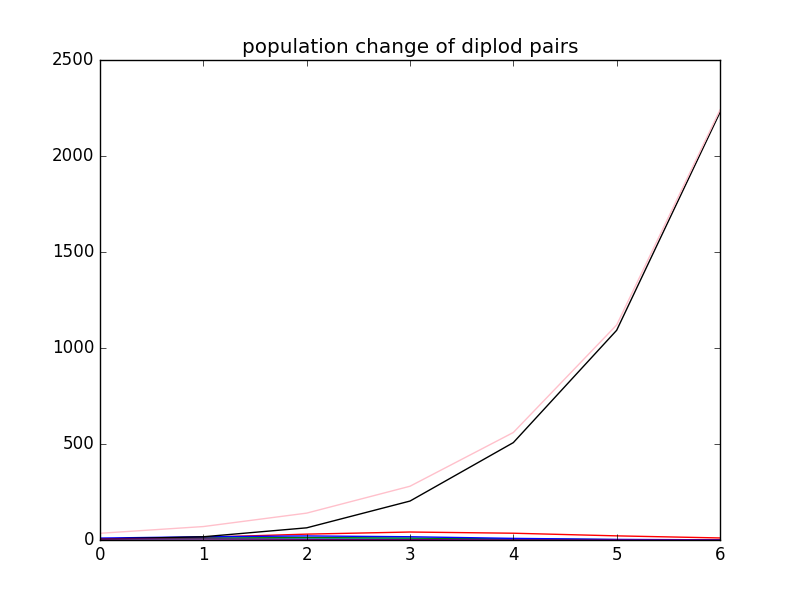
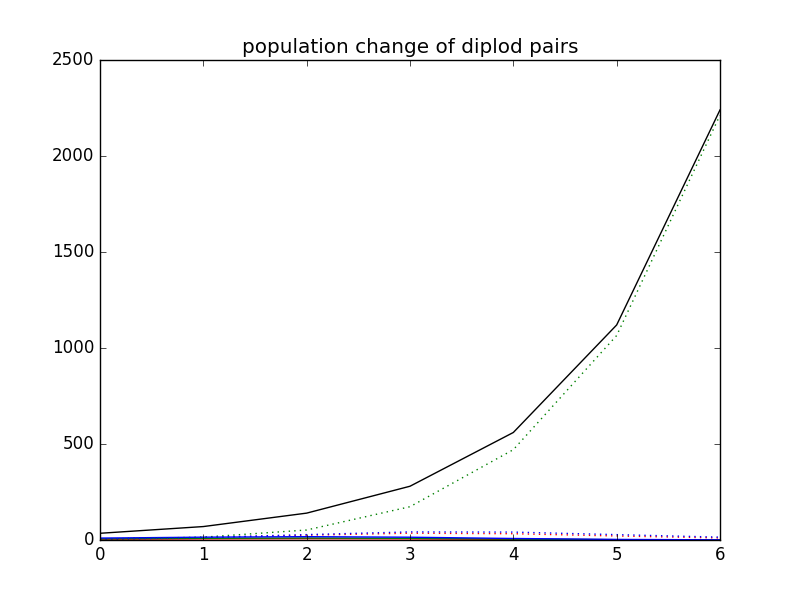
delete 'take1.py', produce 'allelles.png'

diff --git a/hardyweinberg.py b/hardyweinberg.py
@@ -118,6 +118,9 @@ N_graph.insert(0, N_0)
 
 # h = lamed(u, p, v, z, w, K, Q, J, N_0)
 
+littleA = list()
+bigA = list()
+
 n = 0
 N = N_0
 t = 1
@@ -168,15 +171,22 @@ while n <= gen:
     u = N * prob6
     u_list.append(u)
 
+    aa = (w/2) + (u/2) + (v/2)
+    Aa = (w/2) + (K/2) + (J/2)
+    AA = (K/2) + (v/2) + (Q/2)
+    a = np.sqrt(aa) + np.sqrt(Aa) #Frequency of 'a' allele
+    littleA.append(a)
+    A = np.sqrt(AA) + np.sqrt(Aa)
+    bigA.append(A)
+
 print w_list[5]
 print u_list[5]
 print v_list[5]
-aa = (w/2) + (u/2) + (v/2)
-Aa = (w/2) + (K/2) + (J/2)
-AA = (K/2) + (v/2) + (Q/2)
-a = sqrt(aa) #Frequency of 'a' allele
-A = 1-a #Frequency of 'A' allele
-Aa = 2*(a)*(A)
+#aa = (w/2) + (u/2) + (v/2)
+#Aa = (w/2) + (K/2) + (J/2)
+#AA = (K/2) + (v/2) + (Q/2)
+#a = np.sqrt(aa) + np.sqrt(Aa) #Frequency of 'a' allele
+#A = np.sqrt(AA) + np.sqrt(Aa) #Frequency of 'A' allele
 # SUPER IMPORTANT: After running, if everything works, I want you to hashtag row 175 and unhashtag the bottom equation to see if they give the same results. If not, message me.
 # Aa = 2*(a)*(A)
 print "frequency of aa individuals: " + str(aa)
@@ -188,30 +198,30 @@ print "frequency of 'A' allele:" + str(A)
 # plt.ylabel('Conc (M)')
 plt.title('probability of diploid mating pairs occuring in subsequent generatrions')
 # plt.axis([0,tmax,0,1.0])
-plt.plot(w_prob, 'red', ':')
+plt.plot(w_prob, linestyle=':', color='red')
 plt.plot(K_prob, 'red')
 plt.plot(Q_prob, 'green')
 plt.plot(J_prob, 'blue')
-plt.plot(v_prob, 'green', ':')
-plt.plot(u_prob, 'blue', ':')
+plt.plot(v_prob, linestyle=':', color='green')
+plt.plot(u_prob, linestyle=':',color='blue')
 plt.plot(total, 'black')
 plt.savefig("pair probabilities")
 plt.show()
 
 plt.title('population change of diplod pairs')
-plt.plot(w_list, 'red', ':')
+plt.plot(w_list, linestyle=':', color='red')
 plt.plot(K_list, 'red')
 plt.plot(Q_list, 'green')
 plt.plot(J_list, 'blue')
-plt.plot(v_list, 'green', ':')
-plt.plot(u_list, 'blue', ':')
+plt.plot(v_list, linestyle=':', color='green')
+plt.plot(u_list, linestyle=':', color='blue')
 plt.plot(N_graph, 'black')
 plt.savefig("population")
 plt.show()
 
 plt.title('proportion of each allele')
-plt.plot(A, 'red')
-plt.plot(a, 'orange')
+plt.plot(littleA, 'red')
+plt.plot(bigA, 'orange')
 plt.ylabel("Allele Frequency")
 plt.xlabel("Generations")
 plt.savefig("alleles")
